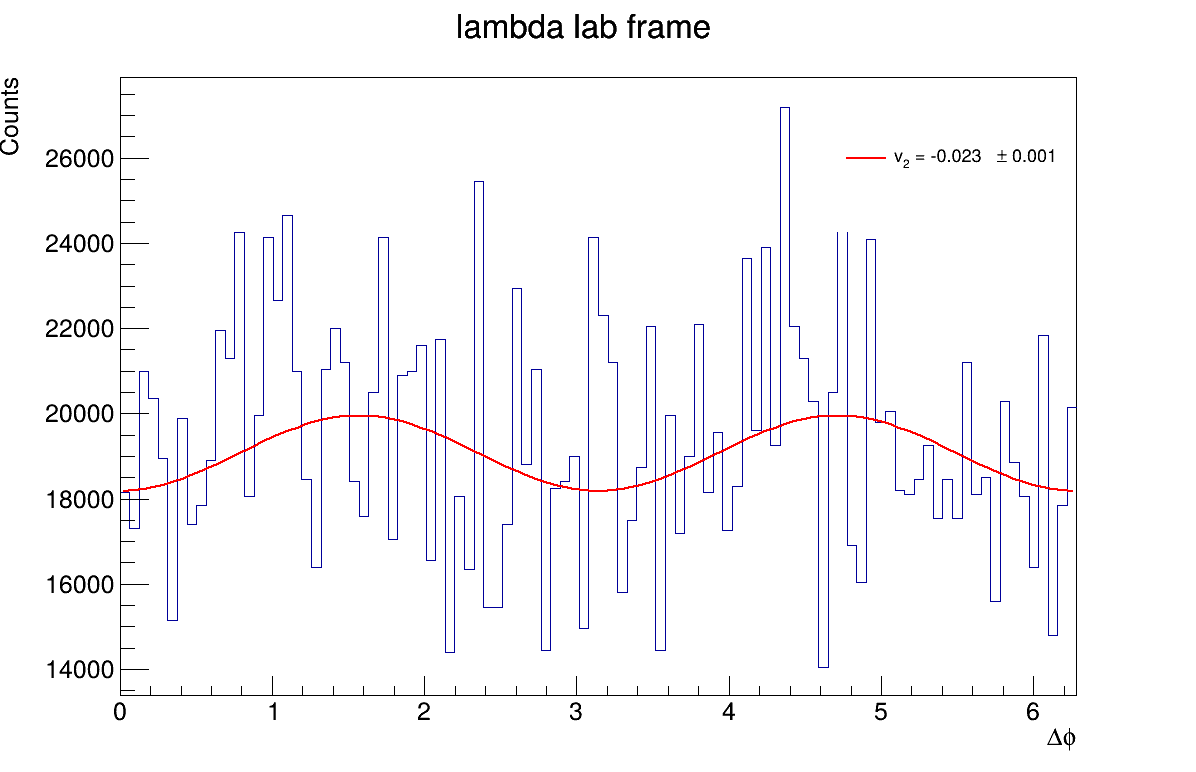
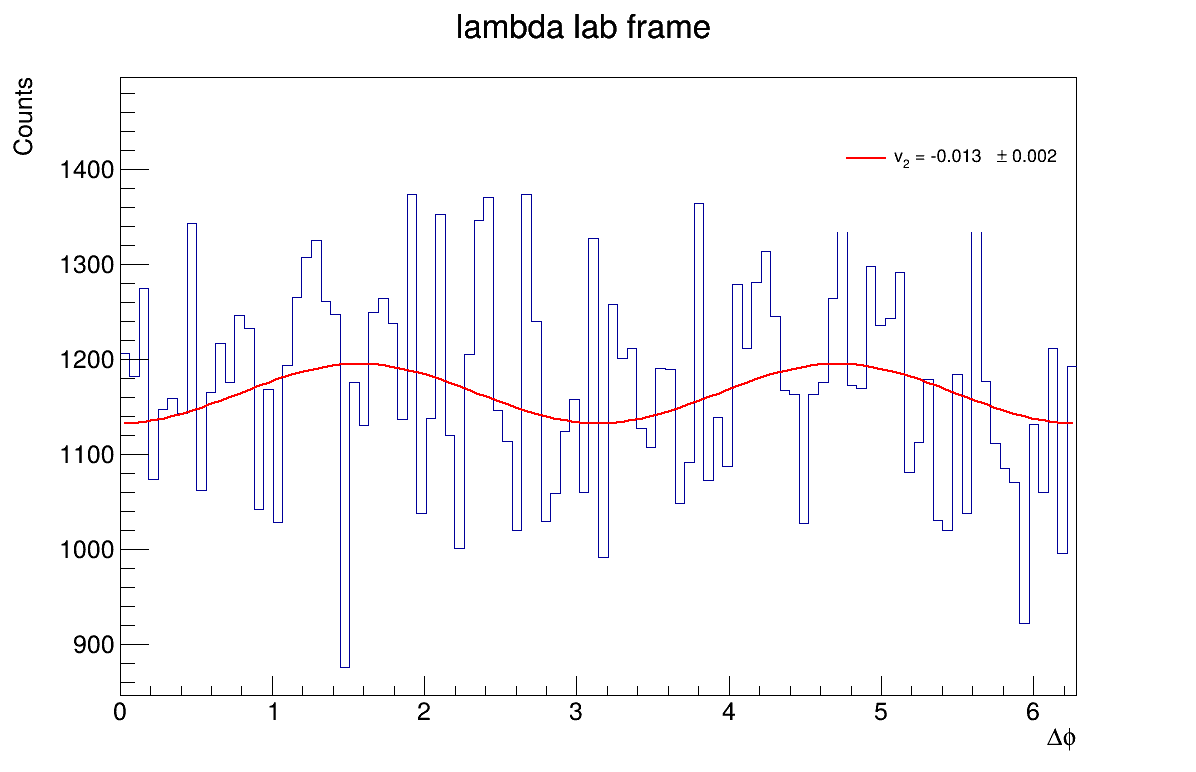
event branch and lambda generator has been fixed

diff --git a/read_unigen_root.cpp b/read_unigen_root.cpp
@@ -187,22 +187,20 @@ void simulate_lambda_decays(TString inputFile, TString outputFile, TString confI
         outEvent->SetStepNr(inEvent->GetStepNr());
         outEvent->SetStepT(inEvent->GetStepT());
         //std::cout<<"TEST_14"<<std::endl;
-
+        //first we COUNT lambdas
         for (Int_t i = 0; i < inEvent->GetNpa(); i++) {
+            UParticle* part = inEvent->GetParticle(i);
+            if (part->GetPdg() == 3122) lambdaCounter++;
+        }
+
+        //std::cout << "=====\nLambda counter in event #" << iEvent << " : " << lambdaCounter << " lambdas\n";
+
+        for (Int_t i = 0; i < inEvent->GetNpa(); ++i) {
             //std::cout<<"TEST_15_1"<<std::endl;
 
             UParticle* part = inEvent->GetParticle(i);
-            //std::cout<<"TEST_15_2"<<std::endl;
-
-            vecPolarization->clear();
-            //std::cout<<"TEST_15_3"<<std::endl;
-
-            ULambda->clear();
-            UProton->clear();
-            UPion->clear();
-            //std::cout<<"TEST_15_4"<<std::endl;
-
             if(i == inEvent->GetNpa()-1 && lambdaCounter == 0){
+                //std::cout << "do u work?" << std::endl;
                 Double_t pt  = gRandom->Uniform(0.5, 3.0);
                 Double_t phi = gRandom->Uniform(0, 2*TMath::Pi());
                 Double_t eta = gRandom->Uniform(-1, 1);
@@ -218,12 +216,23 @@ void simulate_lambda_decays(TString inputFile, TString outputFile, TString confI
                     get_random_value(pt*sinh(eta), 0.03),
                     get_random_value(sqrt(pt*pt*cosh(eta)*cosh(eta) + mLambda*mLambda), 0.03)
                 );
-                part = new UParticle(i, 3122, 1, 1, 1, -15, -1,
+                UParticle* newpart = new UParticle(i, 3122, 1, 1, 1, -15, -1,
                                     child_null, newLambdaMom, newLambdaPos, 0 );
+                                    lambdaCounter++;
+                                    part = newpart;
             }
-            
-            if (part->GetPdg() != 3122) continue; // Select Lambdas (PDG code 3122)
-            lambdaCounter++;
+
+            if (part->GetPdg() != 3122) {
+                outEvent->AddParticle(*part);
+                continue; 
+            }// Select Lambdas (PDG code 3122)
+            else lambdaCounter++;
+
+            //!!!clear vectors here, bc if placed in the head of function, the vector is cleared on any non-Lambda!
+            vecPolarization->clear();
+            ULambda->clear();
+            UProton->clear();
+            UPion->clear();
             
             lambda = *part;
             set_lambda_parameterization(Lambda_yield, inEvent->GetB(), lambda); 
@@ -288,18 +297,21 @@ void simulate_lambda_decays(TString inputFile, TString outputFile, TString confI
             proton = UParticle(i, 2212, 0, i, i, enhancedFlag, -1, child_null, proton_rest, proton_lab_pos, fWeight);
             pion   = UParticle(i, -211, 0, i, i, enhancedFlag, -1, child_null, pion_rest, pion_lab_pos, fWeight);
 
+            outEvent->AddParticle(lambda);
+            outEvent->AddParticle(proton);
+            outEvent->AddParticle(pion);
+
             ULambda->push_back(lambda);
             UProton->push_back(proton);
             UPion->push_back(pion);
+
+            //std::cout << "Lambda counter in event #" << iEvent << " b4 enhance : " << ULambda->size() << " lambdas\n"; 
 
             // Fill histograms
             hCosTheta->Fill(cos_theta);
             hAngVsPt->Fill(lambda_lab.Pt(), cos_theta);
             hLambdaPhi->Fill(get_positive_phi(lambda.GetMomentum().Phi()));
 
-            outEvent->AddParticle(lambda);
-            outEvent->AddParticle(proton);
-            outEvent->AddParticle(pion);
 
             Double_t fEnhanceStat = enhanceStat;
             while(fEnhanceStat > 1){ //enhancing of lambdas
@@ -336,7 +348,7 @@ void simulate_lambda_decays(TString inputFile, TString outputFile, TString confI
 
                 double phi = rand->Uniform(0, 2*TMath::Pi());
 
-                TVector3 pol = get_pol_lambda(lambda, fPolY/100., fSigmaPolVal);
+                TVector3 pol = get_pol_lambda(enhancedLambda, fPolY/100., fSigmaPolVal);
                 vecPolarization->push_back(pol);
 
                 double cos_theta = get_costh(0.732, pol.Mag());
@@ -381,17 +393,20 @@ void simulate_lambda_decays(TString inputFile, TString outputFile, TString confI
                 hAngVsPt->Fill(lambda_lab.Pt(), cos_theta);
                 hLambdaPhi->Fill(get_positive_phi(enhancedLambda.GetMomentum().Phi()));
 
-                ULambda->push_back(lambda);
-                UProton->push_back(proton);
-                UPion->push_back(pion);
-    
-                outEvent->AddParticle(lambda);
-                outEvent->AddParticle(proton);
-                outEvent->AddParticle(pion);
+                outEvent->AddParticle(enhancedLambda);
+                outEvent->AddParticle(protonEnhanced);
+                outEvent->AddParticle(pionEnhanced);
 
+                ULambda->push_back(enhancedLambda);
+                UProton->push_back(protonEnhanced);
+                UPion->push_back(pionEnhanced);
+    
+                //std::cout << "ooooo Lambda counter in event #" << iEvent << " inside enhance : " << ULambda->size() << " lambdas\n"; 
                 fEnhanceStat--;
             }
         }
+        //std::cout << "Lambda counter in event #" << iEvent << " after add & enhance : " << ULambda->size() << " lambdas\n"; 
+
         outTree->Fill();
     }
     std::cout<<"TEST_15"<<std::endl;

diff --git a/lambdaPolAnal.cpp b/lambdaPolAnal.cpp
@@ -32,8 +32,11 @@ void lambdaPolAnal() {
 
     TString OutFileName = "result_global_polarization_urqmd_xexe_2.87gev_mf_6195240.mcini.root"; //resulting .root file, it contains deltaPhi distributions
 
-    Int_t nFile = 4; //number of input file
+    Int_t nFile = 2; //number of input file
     Int_t enhancedValue = 2; //number of enhanced lambdass
+
+    gSystem->Load("AutoDict_vector_TVector3__cxx.so");
+    gSystem->Load("AutoDict_vector_UParticle__cxx.so");
 
     for(Int_t iFile = 1; iFile < nFile; ++iFile){// Uncomment the loop if it is needed for proton production
         //Notice! simulate_lambda_decays() produced protons and pions in lambda state frame! 
